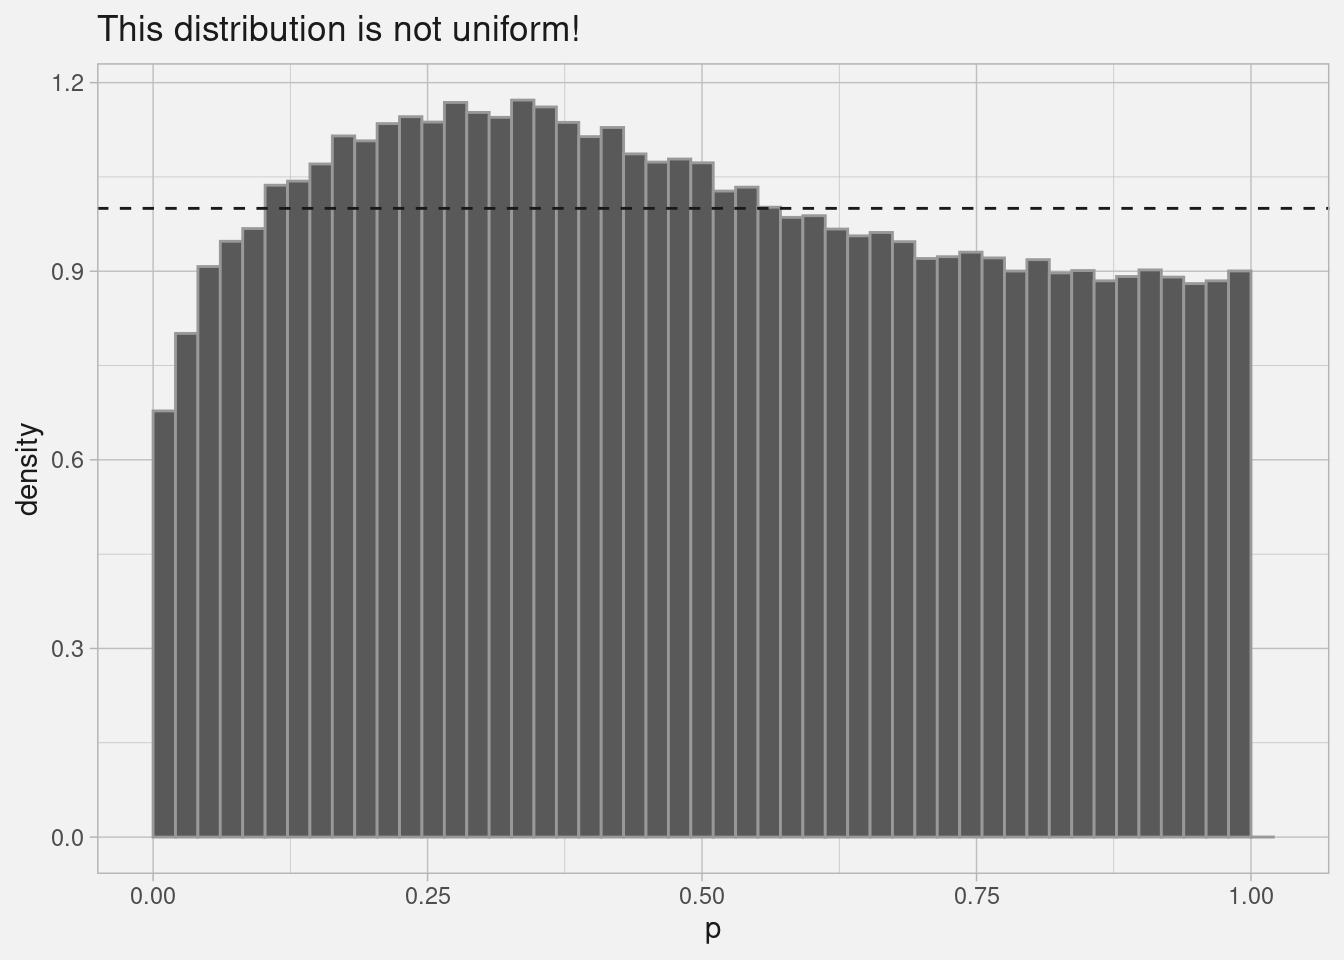
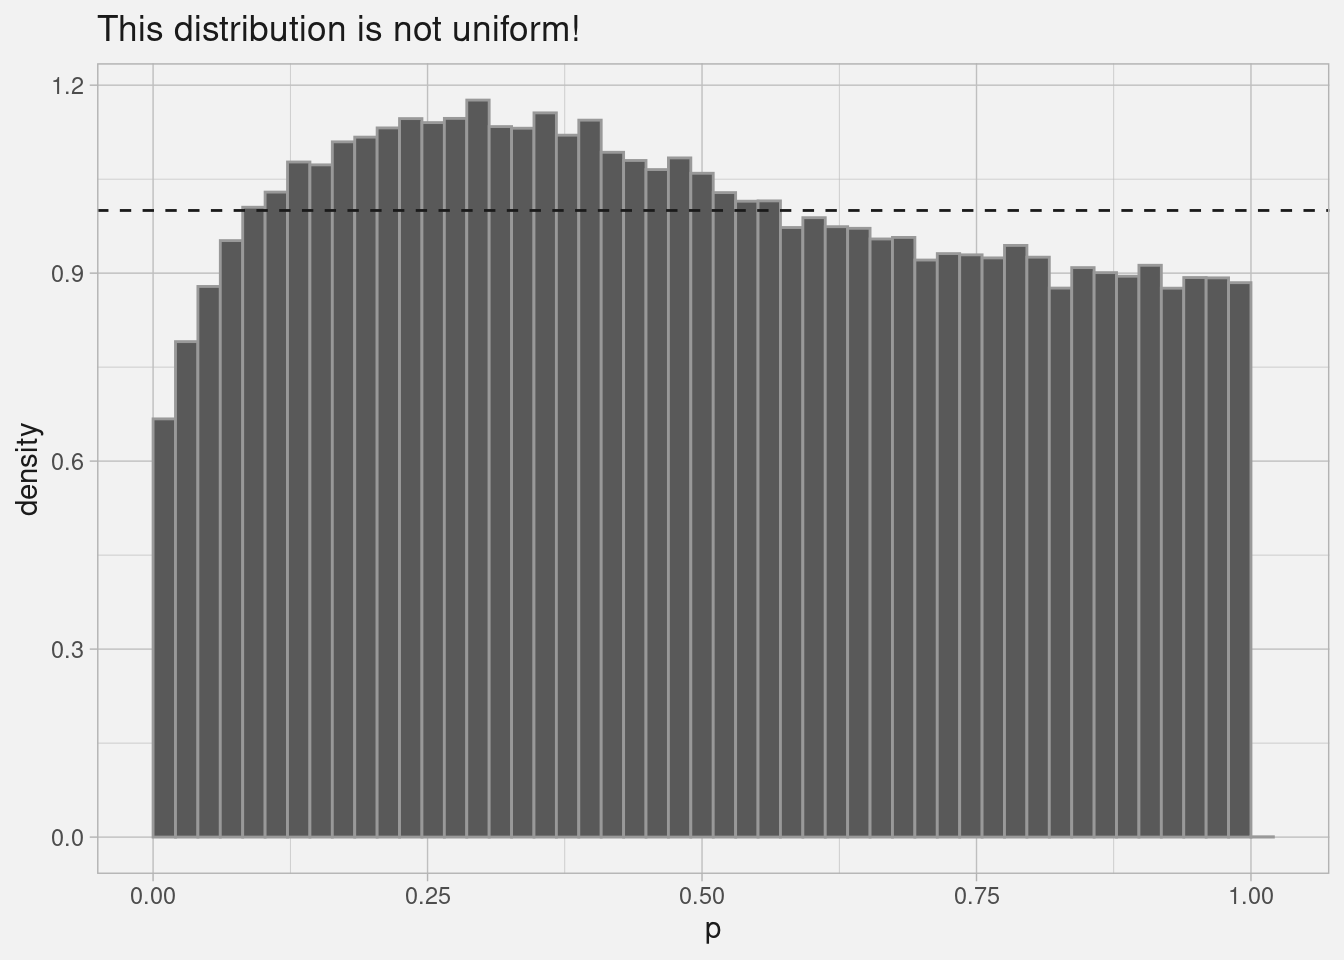
Built site for gh-pages

diff --git a/posts/collapse_is_sick/sick.html b/posts/collapse_is_sick/sick.html
@@ -203,11 +203,11 @@ pre > code.sourceCode > span > a:first-child::before { text-decoration: underlin
 <p>I wanted to know the null p-value distribution that you’d get when mis-applying a t-test to non-normally distributed data with a small number of data points. So to simulate this I:</p>
 <ul>
 <li>generate 100k groups</li>
-<li>generate 6*100k random t-distributed numbers (df = 3)</li>
-<li>compute the p-value test statistic for each group. In R, this is <code>2*pt(sqrt(6) * abs(mean(x) / sd(x)), 5, lower.tail = FALSE)</code> where <code>x</code> are the random values for the group.
+<li>generate 6*100k random t-distributed (df = 3) synthetic observations</li>
+<li>compute the p-value test statistic for each group. In R, this is <code>2*pt(sqrt(6) * abs(mean(x) / sd(x)), 5, lower.tail = FALSE)</code> where <code>x</code> are the random observations for the group.
 <ul>
 <li>This can be done naively with <code>t.test(x)$p.value</code> of course, but that comes with a lot of slow baggage.</li>
-<li>It’s probably also possible to figure out the distribution I’m trying to simulate analytically. Simulating it is easier.</li>
+<li>It’s probably possible to figure out the distribution I’m trying to simulate analytically. Simulating it is easier.</li>
 </ul></li>
 </ul>
 <p>We’ll try it in <code>dplyr</code>, <code>data.table</code>, and <code>collapse</code>, making sure to use a single thread on the latter two:</p>
@@ -233,17 +233,17 @@ pre > code.sourceCode > span > a:first-child::before { text-decoration: underlin
 <div class="cell-output cell-output-stdout">
 <pre><code>              g           x
           &lt;int&gt;       &lt;num&gt;
-      1:      1 -3.48409676
-      2:      1  0.15042095
-      3:      1  1.13387276
-      4:      1  0.49418580
-      5:      1 -2.32011785
+      1:      1 -0.73444564
+      2:      1  0.36597911
+      3:      1 -0.27794500
+      4:      1  0.64412979
+      5:      1 -0.03793993
      ---                   
-1799996: 300000 -1.63776731
-1799997: 300000  0.04093387
-1799998: 300000 -0.52113228
-1799999: 300000 -0.88467284
-1800000: 300000 -0.91563773</code></pre>
+1799996: 300000  0.89369762
+1799997: 300000  0.32863263
+1799998: 300000  0.50397917
+1799999: 300000  0.89890535
+1800000: 300000  0.19279528</code></pre>
 </div>
 </div>
 </section>
@@ -316,54 +316,52 @@ pre > code.sourceCode > span > a:first-child::before { text-decoration: underlin
 <div class="sourceCode cell-code" id="cb7"><pre class="sourceCode r code-with-copy"><code class="sourceCode r"><span id="cb7-1"><a href="#cb7-1" aria-hidden="true" tabindex="-1"></a><span class="co"># the all.equal() check fails because dplyr returns a tibble. That's the only difference,</span></span>
 <span id="cb7-2"><a href="#cb7-2" aria-hidden="true" tabindex="-1"></a><span class="co"># but it necessitates setting check = FALSE.</span></span>
 <span id="cb7-3"><a href="#cb7-3" aria-hidden="true" tabindex="-1"></a></span>
-<span id="cb7-4"><a href="#cb7-4" aria-hidden="true" tabindex="-1"></a>bench<span class="sc">::</span><span class="fu">mark</span>(<span class="fu">dplyr_soln</span>(val_dt),</span>
-<span id="cb7-5"><a href="#cb7-5" aria-hidden="true" tabindex="-1"></a>            <span class="fu">dt_soln</span>(val_dt),</span>
-<span id="cb7-6"><a href="#cb7-6" aria-hidden="true" tabindex="-1"></a>            <span class="fu">dt_fast_soln</span>(val_dt),</span>
-<span id="cb7-7"><a href="#cb7-7" aria-hidden="true" tabindex="-1"></a>            <span class="fu">collapse_soln</span>(val_dt),</span>
-<span id="cb7-8"><a href="#cb7-8" aria-hidden="true" tabindex="-1"></a>            <span class="at">check =</span> <span class="cn">FALSE</span>, </span>
-<span id="cb7-9"><a href="#cb7-9" aria-hidden="true" tabindex="-1"></a>            <span class="at">min_iterations =</span> <span class="dv">2</span>) <span class="sc">|&gt;</span> </span>
-<span id="cb7-10"><a href="#cb7-10" aria-hidden="true" tabindex="-1"></a>  <span class="fu">fselect</span>(expression<span class="sc">:</span>mem_alloc, n_itr)</span></code><button title="Copy to Clipboard" class="code-copy-button"><i class="bi"></i></button></pre></div>
+<span id="cb7-4"><a href="#cb7-4" aria-hidden="true" tabindex="-1"></a>bench_res <span class="ot">=</span> bench<span class="sc">::</span><span class="fu">mark</span>(<span class="at">dplyr =</span> <span class="fu">dplyr_soln</span>(val_dt),</span>
+<span id="cb7-5"><a href="#cb7-5" aria-hidden="true" tabindex="-1"></a>                        <span class="at">dt_slow =</span> <span class="fu">dt_soln</span>(val_dt),</span>
+<span id="cb7-6"><a href="#cb7-6" aria-hidden="true" tabindex="-1"></a>                        <span class="at">dt_fast =</span> <span class="fu">dt_fast_soln</span>(val_dt),</span>
+<span id="cb7-7"><a href="#cb7-7" aria-hidden="true" tabindex="-1"></a>                        <span class="at">collapse =</span> <span class="fu">collapse_soln</span>(val_dt),</span>
+<span id="cb7-8"><a href="#cb7-8" aria-hidden="true" tabindex="-1"></a>                        <span class="at">check =</span> <span class="cn">FALSE</span>, </span>
+<span id="cb7-9"><a href="#cb7-9" aria-hidden="true" tabindex="-1"></a>                        <span class="at">min_iterations =</span> <span class="dv">2</span>)</span>
+<span id="cb7-10"><a href="#cb7-10" aria-hidden="true" tabindex="-1"></a></span>
+<span id="cb7-11"><a href="#cb7-11" aria-hidden="true" tabindex="-1"></a>bench_res <span class="sc">|&gt;</span> </span>
+<span id="cb7-12"><a href="#cb7-12" aria-hidden="true" tabindex="-1"></a>  <span class="fu">fselect</span>(expression<span class="sc">:</span>mem_alloc, n_itr)</span></code><button title="Copy to Clipboard" class="code-copy-button"><i class="bi"></i></button></pre></div>
 </details>
-<div class="cell-output cell-output-stderr">
-<pre><code>Warning: Some expressions had a GC in every iteration; so filtering is
-disabled.</code></pre>
-</div>
 <div class="cell-output cell-output-stdout">
 <pre><code># A tibble: 4 × 5
-  expression                 min   median `itr/sec` mem_alloc
-  &lt;bch:expr&gt;            &lt;bch:tm&gt; &lt;bch:tm&gt;     &lt;dbl&gt; &lt;bch:byt&gt;
-1 dplyr_soln(val_dt)       3.68s    3.74s     0.267      50MB
-2 dt_soln(val_dt)          3.02s    3.21s     0.311    12.7MB
-3 dt_fast_soln(val_dt)   84.27ms  84.65ms    11.6      60.9MB
-4 collapse_soln(val_dt)  52.74ms  53.71ms    18.5        29MB</code></pre>
+  expression      min   median `itr/sec` mem_alloc
+  &lt;bch:expr&gt; &lt;bch:tm&gt; &lt;bch:tm&gt;     &lt;dbl&gt; &lt;bch:byt&gt;
+1 dplyr         3.67s    3.72s     0.269      50MB
+2 dt_slow       3.02s    3.21s     0.312    12.7MB
+3 dt_fast     83.15ms  83.25ms    11.8      60.9MB
+4 collapse    52.02ms  53.21ms    18.7        29MB</code></pre>
 </div>
 </div>
-<p><code>data.table</code> is about 35x faster than <code>dplyr</code>, and <code>collapse</code> is <strong>70x</strong> faster. It somehow manages to vectorize the group-wise means / sds, but <em>also</em> use those as inputs to a single call to the internally vectorized <code>stats::pt()</code>.</p>
+<p><code>data.table</code> is about 44.7 times faster than <code>dplyr</code>, and <code>collapse</code> is <code>round(as.numeric( bench_res$median[1] / bench_res$median[4]), digits = 1)</code> faster. It somehow manages to vectorize the group-wise means / sds, but <em>also</em> use those as inputs to a single call to the internally vectorized <code>stats::pt()</code>.</p>
 </section>
 <section id="misc" class="level1">
 <h1>Misc</h1>
 <ul>
 <li>I also tried it in <code>r-polars</code>, which tied with collapse in terms of speed IF you don’t count the conversion to the <code>pl$DataFrame()</code> class. The syntax was <em>horrifying</em>. Plus, the conversion to the conversion to the <code>pl$DataFrame()</code> class renders many R functions inoperable from what I can tell. It’s almost like you’re not writing R anymore, it feels more like writing in a separate language with an R interface.</li>
 </ul>
-<p>And here’s the distribution I was trying to simulate so I can have a figure on this post. Violating the normality assumptions leads to an incorrect p-value distribution, surprise!</p>
+<p>And here’s the distribution I was trying to simulate so I can have a figure on this post. Violating the normality assumptions leads to a non-uniform p-value distribution and miscalibrated statistics, surprise!</p>
 <div class="cell">
 <details>
 <summary>Code</summary>
-<div class="sourceCode cell-code" id="cb10"><pre class="sourceCode r code-with-copy"><code class="sourceCode r"><span id="cb10-1"><a href="#cb10-1" aria-hidden="true" tabindex="-1"></a><span class="fu">library</span>(ggplot2)</span>
-<span id="cb10-2"><a href="#cb10-2" aria-hidden="true" tabindex="-1"></a></span>
-<span id="cb10-3"><a href="#cb10-3" aria-hidden="true" tabindex="-1"></a><span class="fu">collapse_soln</span>(val_dt) <span class="sc">|&gt;</span> </span>
-<span id="cb10-4"><a href="#cb10-4" aria-hidden="true" tabindex="-1"></a>  <span class="fu">ggplot</span>(<span class="fu">aes</span>(p)) <span class="sc">+</span> </span>
-<span id="cb10-5"><a href="#cb10-5" aria-hidden="true" tabindex="-1"></a>  <span class="fu">geom_histogram</span>(<span class="at">bins =</span> <span class="dv">50</span>, <span class="at">boundary =</span> <span class="dv">0</span>,</span>
-<span id="cb10-6"><a href="#cb10-6" aria-hidden="true" tabindex="-1"></a>                 <span class="fu">aes</span>(<span class="at">y =</span> <span class="fu">after_stat</span>(density)),</span>
-<span id="cb10-7"><a href="#cb10-7" aria-hidden="true" tabindex="-1"></a>                 <span class="at">color =</span> <span class="st">'grey60'</span>) <span class="sc">+</span> </span>
-<span id="cb10-8"><a href="#cb10-8" aria-hidden="true" tabindex="-1"></a>  <span class="fu">geom_hline</span>(<span class="at">yintercept =</span> <span class="dv">1</span>, <span class="at">lty =</span> <span class="dv">2</span>, <span class="at">color =</span> <span class="st">'grey10'</span>) <span class="sc">+</span> </span>
-<span id="cb10-9"><a href="#cb10-9" aria-hidden="true" tabindex="-1"></a>  <span class="fu">theme_light</span>() <span class="sc">+</span> </span>
-<span id="cb10-10"><a href="#cb10-10" aria-hidden="true" tabindex="-1"></a>  <span class="fu">theme</span>(<span class="at">text =</span> <span class="fu">element_text</span>(<span class="at">color =</span> <span class="st">"grey10"</span>),</span>
-<span id="cb10-11"><a href="#cb10-11" aria-hidden="true" tabindex="-1"></a>        <span class="at">strip.text =</span> <span class="fu">element_text</span>(<span class="at">color =</span> <span class="st">"grey10"</span>),</span>
-<span id="cb10-12"><a href="#cb10-12" aria-hidden="true" tabindex="-1"></a>        <span class="at">plot.background =</span> <span class="fu">element_rect</span>(<span class="at">color =</span> <span class="st">"grey95"</span>, <span class="at">fill =</span> <span class="st">"grey95"</span>),</span>
-<span id="cb10-13"><a href="#cb10-13" aria-hidden="true" tabindex="-1"></a>        <span class="at">panel.background =</span> <span class="fu">element_rect</span>(<span class="at">color =</span> <span class="st">"grey95"</span>, <span class="at">fill =</span> <span class="st">"grey95"</span>),</span>
-<span id="cb10-14"><a href="#cb10-14" aria-hidden="true" tabindex="-1"></a>        <span class="at">panel.grid =</span> <span class="fu">element_line</span>(<span class="at">color =</span> <span class="st">"grey75"</span>)) <span class="sc">+</span> </span>
-<span id="cb10-15"><a href="#cb10-15" aria-hidden="true" tabindex="-1"></a>  <span class="fu">labs</span>(<span class="at">title =</span> <span class="st">"This distribution is not uniform!"</span>)</span></code><button title="Copy to Clipboard" class="code-copy-button"><i class="bi"></i></button></pre></div>
+<div class="sourceCode cell-code" id="cb9"><pre class="sourceCode r code-with-copy"><code class="sourceCode r"><span id="cb9-1"><a href="#cb9-1" aria-hidden="true" tabindex="-1"></a><span class="fu">library</span>(ggplot2)</span>
+<span id="cb9-2"><a href="#cb9-2" aria-hidden="true" tabindex="-1"></a></span>
+<span id="cb9-3"><a href="#cb9-3" aria-hidden="true" tabindex="-1"></a><span class="fu">collapse_soln</span>(val_dt) <span class="sc">|&gt;</span> </span>
+<span id="cb9-4"><a href="#cb9-4" aria-hidden="true" tabindex="-1"></a>  <span class="fu">ggplot</span>(<span class="fu">aes</span>(p)) <span class="sc">+</span> </span>
+<span id="cb9-5"><a href="#cb9-5" aria-hidden="true" tabindex="-1"></a>  <span class="fu">geom_histogram</span>(<span class="at">bins =</span> <span class="dv">50</span>, <span class="at">boundary =</span> <span class="dv">0</span>,</span>
+<span id="cb9-6"><a href="#cb9-6" aria-hidden="true" tabindex="-1"></a>                 <span class="fu">aes</span>(<span class="at">y =</span> <span class="fu">after_stat</span>(density)),</span>
+<span id="cb9-7"><a href="#cb9-7" aria-hidden="true" tabindex="-1"></a>                 <span class="at">color =</span> <span class="st">'grey60'</span>) <span class="sc">+</span> </span>
+<span id="cb9-8"><a href="#cb9-8" aria-hidden="true" tabindex="-1"></a>  <span class="fu">geom_hline</span>(<span class="at">yintercept =</span> <span class="dv">1</span>, <span class="at">lty =</span> <span class="dv">2</span>, <span class="at">color =</span> <span class="st">'grey10'</span>) <span class="sc">+</span> </span>
+<span id="cb9-9"><a href="#cb9-9" aria-hidden="true" tabindex="-1"></a>  <span class="fu">theme_light</span>() <span class="sc">+</span> </span>
+<span id="cb9-10"><a href="#cb9-10" aria-hidden="true" tabindex="-1"></a>  <span class="fu">theme</span>(<span class="at">text =</span> <span class="fu">element_text</span>(<span class="at">color =</span> <span class="st">"grey10"</span>),</span>
+<span id="cb9-11"><a href="#cb9-11" aria-hidden="true" tabindex="-1"></a>        <span class="at">strip.text =</span> <span class="fu">element_text</span>(<span class="at">color =</span> <span class="st">"grey10"</span>),</span>
+<span id="cb9-12"><a href="#cb9-12" aria-hidden="true" tabindex="-1"></a>        <span class="at">plot.background =</span> <span class="fu">element_rect</span>(<span class="at">color =</span> <span class="st">"grey95"</span>, <span class="at">fill =</span> <span class="st">"grey95"</span>),</span>
+<span id="cb9-13"><a href="#cb9-13" aria-hidden="true" tabindex="-1"></a>        <span class="at">panel.background =</span> <span class="fu">element_rect</span>(<span class="at">color =</span> <span class="st">"grey95"</span>, <span class="at">fill =</span> <span class="st">"grey95"</span>),</span>
+<span id="cb9-14"><a href="#cb9-14" aria-hidden="true" tabindex="-1"></a>        <span class="at">panel.grid =</span> <span class="fu">element_line</span>(<span class="at">color =</span> <span class="st">"grey75"</span>)) <span class="sc">+</span> </span>
+<span id="cb9-15"><a href="#cb9-15" aria-hidden="true" tabindex="-1"></a>  <span class="fu">labs</span>(<span class="at">title =</span> <span class="st">"This distribution is not uniform!"</span>)</span></code><button title="Copy to Clipboard" class="code-copy-button"><i class="bi"></i></button></pre></div>
 </details>
 <div class="cell-output-display">
 <p><img src="sick_files/figure-html/unnamed-chunk-7-1.png" class="img-fluid" alt="A histogram of simulated p-values from the distribution. The distribution is non-uniform (depleted near 0 and 1 with a mode around 0.3), indicating the t-test assumptions are violated." width="672"></p>

diff --git a/index.html b/index.html
@@ -188,7 +188,7 @@ Andrew Ghazi
 </a>
 </div>
 </div>
-<div class="quarto-post image-right" data-index="1" data-categories="R,benchmark" data-listing-date-sort="1701234000000" data-listing-file-modified-sort="1703695936899" data-listing-date-modified-sort="NaN" data-listing-reading-time-sort="6">
+<div class="quarto-post image-right" data-index="1" data-categories="R,benchmark" data-listing-date-sort="1701234000000" data-listing-file-modified-sort="1703696959802" data-listing-date-modified-sort="NaN" data-listing-reading-time-sort="7">
 <div class="thumbnail">
 <p><a href="./posts/collapse_is_sick/sick.html"> <p class="card-img-top"><img src="posts/collapse_is_sick/sick_files/figure-html/unnamed-chunk-7-1.png" alt="A histogram of simulated p-values from the distribution. The distribution is non-uniform (depleted near 0 and 1 with a mode around 0.3), indicating the t-test assumptions are violated."  class="thumbnail-image card-img"/></p> </a></p>
 </div>
